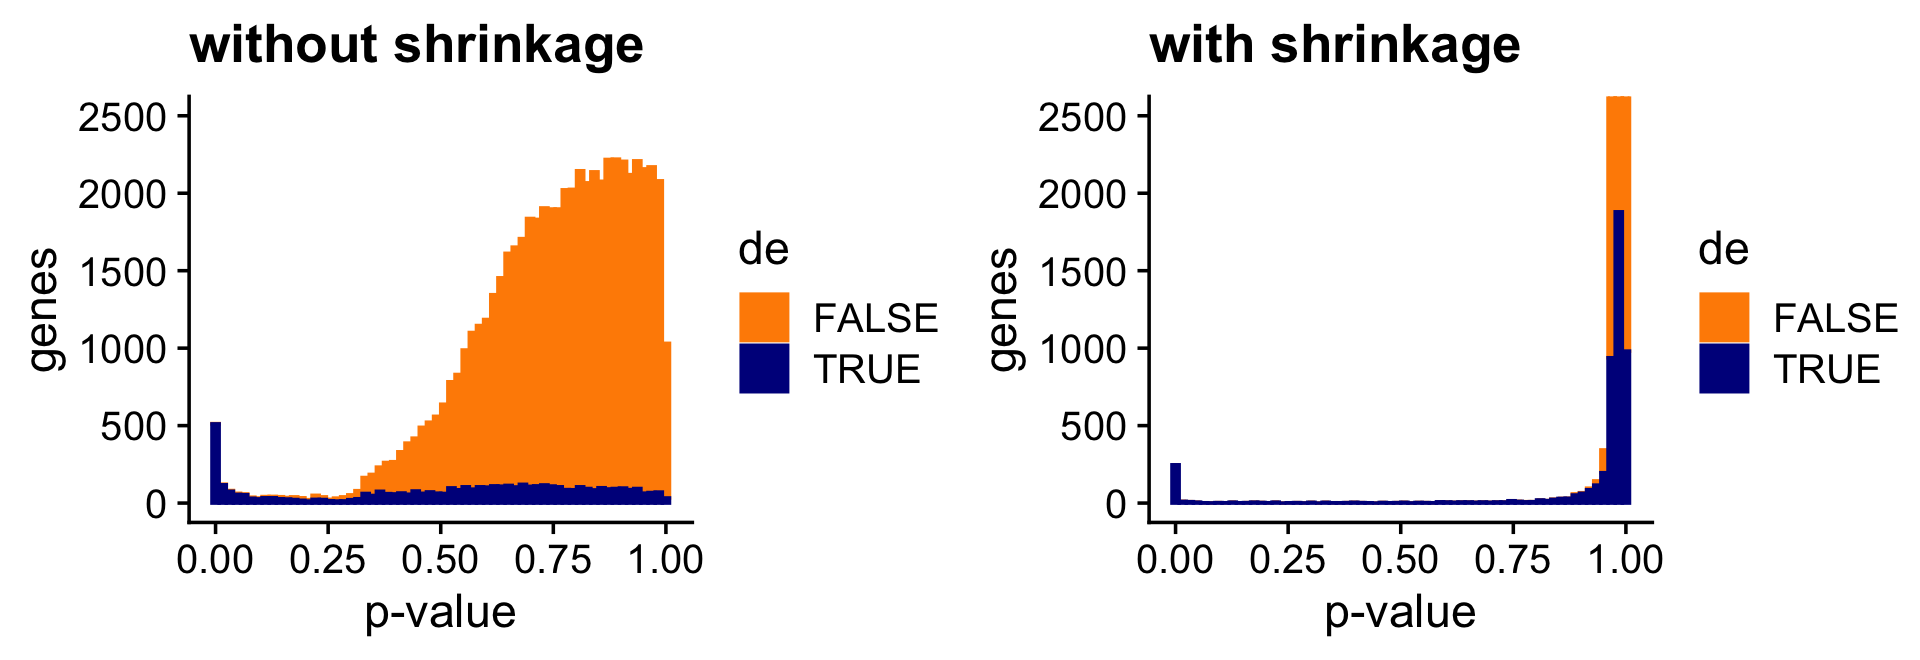
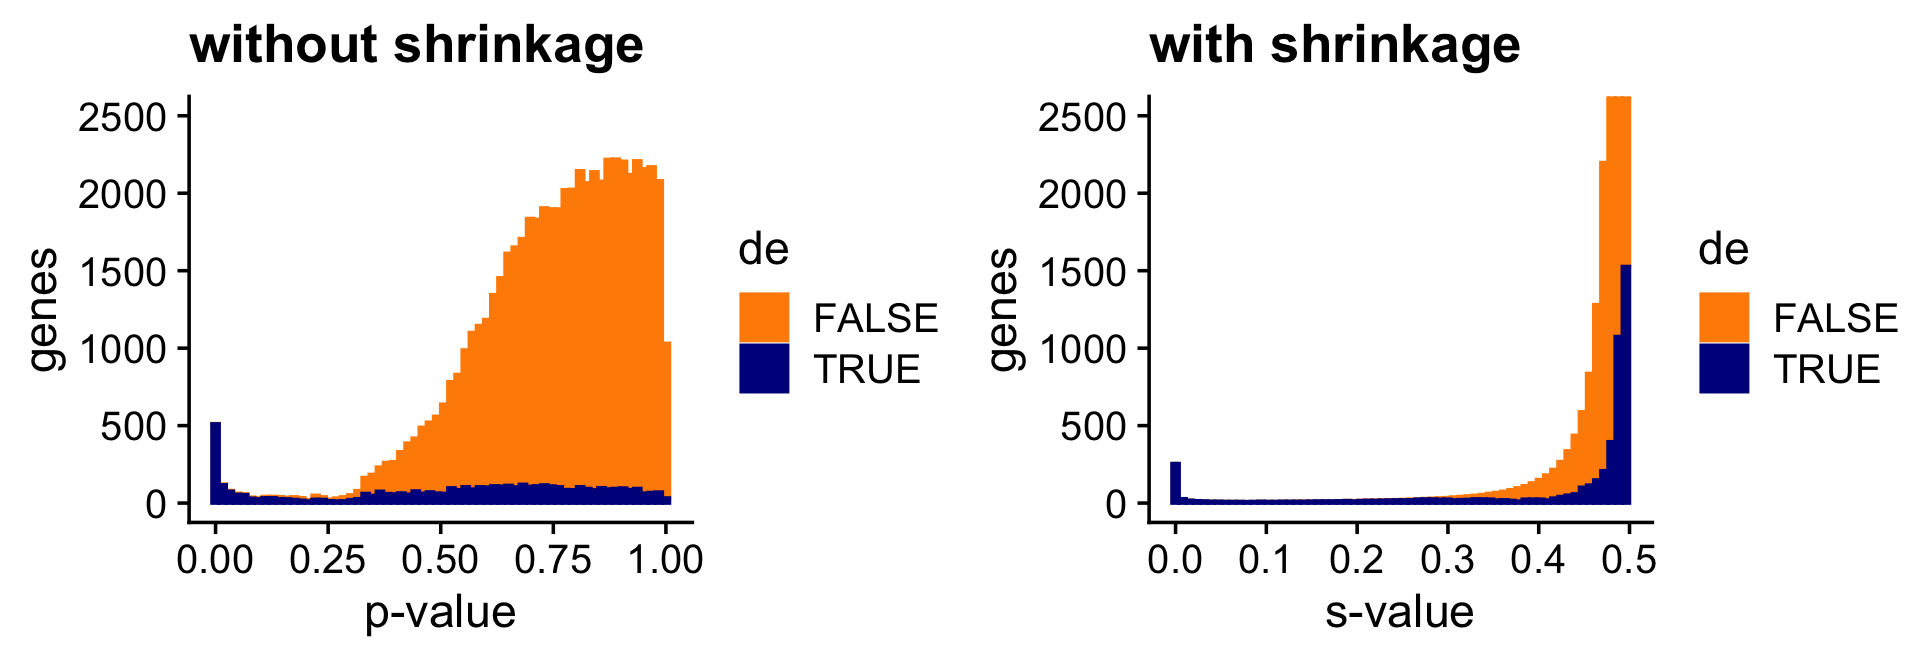
In de_analysis_detailed_look_more analysis replaced p-values with s-values in appropriate places.

Changed region(s): [[0.7188, 0.2424, 0.875, 0.7576], [0.5938, 0.8182, 0.875, 0.8788], [0.6875, 0.9091, 0.7812, 0.9697]]

diff --git a/docs/de_analysis_detailed_look_more.html b/docs/de_analysis_detailed_look_more.html
@@ -323,7 +323,7 @@ $(document).ready(function () {
 <div class="tab-content">
 <div id="summary" class="tab-pane fade in active">
 <p>
-<strong>Last updated:</strong> 2021-11-10
+<strong>Last updated:</strong> 2021-11-22
 </p>
 <p>
 <strong>Checks:</strong> <span class="glyphicon glyphicon-ok text-success" aria-hidden="true"></span> 6 <span class="glyphicon glyphicon-exclamation-sign text-danger" aria-hidden="true"></span> 1
@@ -426,16 +426,16 @@ fit-poisson-nmf
 <div class="panel panel-default">
 <div class="panel-heading">
 <p class="panel-title">
-<a data-toggle="collapse" data-parent="#workflowr-checks" href="#strongRepositoryversionstrongahrefhttpsgithubcomstephenslabsinglecelltopicstreec5b63bc5fde38b61b5d9285a077e4628ee75a9edtargetblankc5b63bca"> <span class="glyphicon glyphicon-ok text-success" aria-hidden="true"></span> <strong>Repository version:</strong> <a href="https://github.com/stephenslab/single-cell-topics/tree/c5b63bc5fde38b61b5d9285a077e4628ee75a9ed" target="_blank">c5b63bc</a> </a>
+<a data-toggle="collapse" data-parent="#workflowr-checks" href="#strongRepositoryversionstrongahrefhttpsgithubcomstephenslabsinglecelltopicstree62354cbb7f53999e6daed43cbd540ad7ac6b86b0targetblank62354cba"> <span class="glyphicon glyphicon-ok text-success" aria-hidden="true"></span> <strong>Repository version:</strong> <a href="https://github.com/stephenslab/single-cell-topics/tree/62354cbb7f53999e6daed43cbd540ad7ac6b86b0" target="_blank">62354cb</a> </a>
 </p>
 </div>
[2 lines of base64/hex data omitted]
 <div class="panel-body">
 <p>
 Great! You are using Git for version control. Tracking code development and connecting the code version to the results is critical for reproducibility.
 </p>
 <p>
-The results in this page were generated with repository version <a href="https://github.com/stephenslab/single-cell-topics/tree/c5b63bc5fde38b61b5d9285a077e4628ee75a9ed" target="_blank">c5b63bc</a>. See the <em>Past versions</em> tab to see a history of the changes made to the R Markdown and HTML files.
+The results in this page were generated with repository version <a href="https://github.com/stephenslab/single-cell-topics/tree/62354cbb7f53999e6daed43cbd540ad7ac6b86b0" target="_blank">62354cb</a>. See the <em>Past versions</em> tab to see a history of the changes made to the R Markdown and HTML files.
 </p>
 <p>
 Note that you need to be careful to ensure that all relevant files for the analysis have been committed to Git prior to generating the results (you can use <code>wflow_publish</code> or <code>wflow_git_commit</code>). workflowr only checks the R Markdown file, but you know if there are other scripts or data files that it depends on. Below is the status of the Git repository when the results were generated:
@@ -461,7 +461,6 @@ Untracked files:
     Untracked:  analysis/de_analysis_detailed_look_cache/
     Untracked:  analysis/de_analysis_detailed_look_more_cache/
     Untracked:  plots/
-    Untracked:  scripts/pbmc_purified_for_de.RData
 
 </code></pre>
 <p>
@@ -500,6 +499,40 @@ Message
 </tr>
 </thead>
 <tbody>
+<tr>
+<td>
+Rmd
+</td>
+<td>
+<a href="https://github.com/stephenslab/single-cell-topics/blob/62354cbb7f53999e6daed43cbd540ad7ac6b86b0/analysis/de_analysis_detailed_look_more.Rmd" target="_blank">62354cb</a>
+</td>
+<td>
+Peter Carbonetto
+</td>
+<td>
+2021-11-22
+</td>
+<td>
+workflowr::wflow_publish(“de_analysis_detailed_look_more.Rmd”,
+</td>
+</tr>
+<tr>
+<td>
+html
+</td>
+<td>
+<a href="https://rawcdn.githack.com/stephenslab/single-cell-topics/2febad21a69f79c20bd24fe36242d7233b3bdc0e/docs/de_analysis_detailed_look_more.html" target="_blank">2febad2</a>
+</td>
+<td>
+Peter Carbonetto
+</td>
+<td>
+2021-11-10
+</td>
+<td>
+Fixed power vs. fdr plots in de_analysis_detailed_look_more analysis.
+</td>
+</tr>
 <tr>
 <td>
 Rmd
@@ -1062,7 +1095,7 @@ Peter Carbonetto
 </div>
 <p>And the next two bar charts show the overall impact of the shrinkage on the <span class="math inline">\(p\)</span>-values. (The Y axis in the “with shrinkage” plot has been cut off at 2,500 genes to show in more detail the smaller <span class="math inline">\(p\)</span>-values identifying true positives.)</p>
 <pre class="r"><code>pdat &lt;- data.frame(noshrink = 10^(-c(de.noshrink$lpval)),
-                   shrink   = 10^(-c(de$lpval)),
+                   shrink   = c(de$svalue),
                    de       = factor(c(nonzero_lfc)))
 p1 &lt;- ggplot(pdat,aes(x = noshrink,color = de,fill = de)) +
   geom_histogram(bins = 64) +
@@ -1076,7 +1109,7 @@ p2 &lt;- ggplot(pdat,aes(x = shrink,color = de,fill = de)) +
   scale_color_manual(values = c(&quot;darkorange&quot;,&quot;darkblue&quot;)) +
   scale_fill_manual(values = c(&quot;darkorange&quot;,&quot;darkblue&quot;)) +
   coord_cartesian(ylim = c(0,2500)) +
-  labs(x = &quot;p-value&quot;,y = &quot;genes&quot;,title = &quot;with shrinkage&quot;) +
+  labs(x = &quot;s-value&quot;,y = &quot;genes&quot;,title = &quot;with shrinkage&quot;) +
   theme_cowplot()
 print(plot_grid(p1,p2))</code></pre>
 <p><img src="figure/de_analysis_detailed_look_more.Rmd/shrink-vs-noshrink-pvalues-1.png" width="960" style="display: block; margin: auto;" /></p>
@@ -1297,6 +1330,17 @@ Date
 <tbody>
 <tr>
 <td>
+<a href="https://github.com/stephenslab/single-cell-topics/blob/2febad21a69f79c20bd24fe36242d7233b3bdc0e/docs/figure/de_analysis_detailed_look_more.Rmd/kl-vs-fasttopics-2-1.png" target="_blank">2febad2</a>
+</td>
+<td>
+Peter Carbonetto
+</td>
+<td>
+2021-11-10
+</td>
+</tr>
+<tr>
+<td>
 <a href="https://github.com/stephenslab/single-cell-topics/blob/47275515ba30625131c2f281b36066c20c713203/docs/figure/de_analysis_detailed_look_more.Rmd/kl-vs-fasttopics-2-1.png" target="_blank">4727551</a>
 </td>
 <td>
@@ -1403,7 +1447,7 @@ Peter Carbonetto
 # [1] stats     graphics  grDevices utils     datasets  methods   base     
 # 
 # other attached packages:
-# [1] cowplot_1.0.0     ggplot2_3.3.5     fastTopics_0.6-74 Matrix_1.2-18    
+# [1] cowplot_1.0.0     ggplot2_3.3.5     fastTopics_0.6-79 Matrix_1.2-18    
 # 
 # loaded via a namespace (and not attached):
 #  [1] httr_1.4.2         tidyr_1.1.3        jsonlite_1.7.2     viridisLite_0.3.0 
